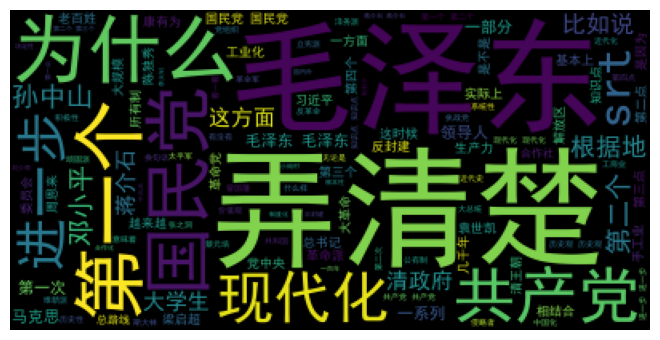
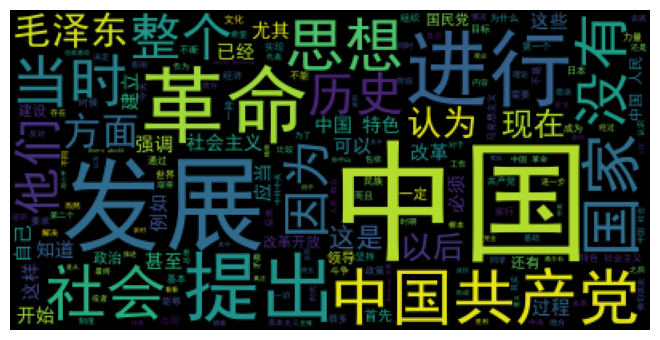
:refactor:finish basic

diff --git a/TextAnalyser/main.py b/TextAnalyser/main.py
@@ -2,28 +2,18 @@ import jieba
 from wordcloud import WordCloud
 import matplotlib.pyplot as plt
 
+
 class TextAnalyser(object):
     """
-    # 基于jieba分词的文本分析器类
+    # 基于jieba分词的文本分析器对象类
     """
+
     def __init__(self, text_filename):
         self.txt_filename = text_filename
         self.ignore_list = []
-        self.minlen = 2
-        self.maxlen = 100
-
         self.cloud_material = ""
-        self.word_dict = {} # 用字典统计每个词的出现次数
+        self.word_dict = {}  # 用字典统计每个词的出现次数
 
-
-    def set_len_range(self, minlen, maxlen):
-        """
-        # set_len_range
-        设定分词筛选长度，获取制定长度区间的词语结果
-        """
-        self.minlen=minlen
-        self.maxlen=maxlen
-        
     def set_ignore_list(self, ignore_config_file='ignore_list.txt') -> list:
         """
         # set_ignore_list
@@ -32,14 +22,14 @@ class TextAnalyser(object):
         with open(ignore_config_file, 'r') as f:
             self.ignore_list = f.readline().strip()
         return self.ignore_list
-    
+
     def set_syno_dict(self):
         """
         # set_syno_list
         设定同义词列表，从而实现合并
         """
-        
-    def analyse(self, content):
+
+    def analyse(self, content, minlen=2, maxlen=10):
         """
         docstring
         """
@@ -47,37 +37,46 @@ class TextAnalyser(object):
         word_list = jieba.lcut(content)
 
         for w in word_list:
-            # 跳过单字
-            if not self.minlen <= len(w) <= self.maxlen:
+            # 选出合适长度的
+            if not minlen <= len(w) <= maxlen:
                 continue
-            
             # 跳过不想统计的词
             if w in self.ignore_list:
                 continue
 
             # 已在字典中的词，将出现次数增加1；否则，添加进字典，次数记为1
             self.word_dict[w] = self.word_dict.get(w, 0) + 1
-
+            # 将符合分词目标的词筛选出来作为词云素材
             self.cloud_material = self.cloud_material + " " + w
 
-        
-    def readfile(self, bigfile=False):
+    def start(self, minlen=2, maxlen=10, bigfile=False, ignore=True, show=True):
         """
-        docstring
+        # start
+        基于已设定参数
         """
+        self.minlen = minlen
+        self.maxlen = maxlen
+        if ignore:
+            self.set_ignore_list()
+
         if bigfile:
-            pass
+            with open(self.txt_filename, 'r', encoding='utf-8') as f:
+                for line in f:
+                    self.analyse(line)
         else:
             # 从文件读取文本
             txt_file = open(self.txt_filename, 'r', encoding='utf-8')
             content = txt_file.read()
             txt_file.close()
-
-
+            self.analyse(content)
+        if show:
+            self.get_result()
+            self.get_wordcloud()
 
     def get_wordcloud(self):
         """
-        docstring
+        # get_wordcloud
+        获得词云
         """
         wordcloud = WordCloud(
             # 生成中文字的字体,必须要加,不然看不到中文
@@ -91,13 +90,15 @@ class TextAnalyser(object):
 
         plt.gca().xaxis.set_major_locator(plt.NullLocator())
         plt.gca().yaxis.set_major_locator(plt.NullLocator())
-        plt.subplots_adjust(top = 1, bottom = 0, right = 1, left = 0, hspace = 0, wspace = 0)
-        plt.margins(0,0)
+        plt.subplots_adjust(top=1, bottom=0, right=1,
+                            left=0, hspace=0, wspace=0)
+        plt.margins(0, 0)
         plt.savefig('./wordcloud.png', bbox_inches='tight')
-        
+
     def get_result(self, result_filename='./output.csv'):
         """
-        docstring
+        # get_result
+        打印结果，并输出到csv文件当中
         """
         # 把字典转成列表，并按原先“键值对”中的“值”从大到小排序
         items_list = list(self.word_dict.items())
@@ -126,3 +127,4 @@ class TextAnalyser(object):
 
 if __name__ == "__main__":
     analyser = TextAnalyser('./srt/raw.txt')
+    analyser.start()
